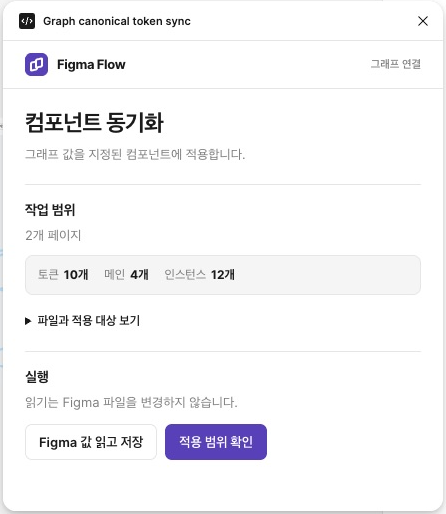
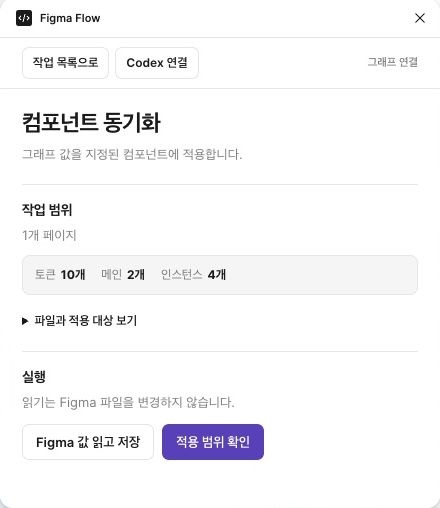
Preserve linked typography through scoped adoption and rollback

diff --git a/figma-bridge/graph_token_sync.js b/figma-bridge/graph_token_sync.js
@@ -16,7 +16,7 @@ function graphSyncPaint(node, field) {
 function graphSyncFieldBinding(node, field) {
   let result;
   if (graphSyncPaintField(field)) result = graphSyncPaint(node, field).boundVariables?.color;
-  else if (field === 'fontFamily') result = node.getRangeBoundVariable(0, node.characters.length, field);
+  else if (field === 'fontFamily' || field === 'fontSize') result = node.getRangeBoundVariable(0, node.characters.length, field);
   else if (field === 'borderRadius') {
     const fields = ['topLeftRadius', 'topRightRadius', 'bottomLeftRadius', 'bottomRightRadius'];
     const aliases = fields.map(key => node.boundVariables?.[key] || node.boundVariables?.cornerRadius || null);
@@ -57,11 +57,119 @@ function graphSyncWritable(node, field) {
 }
 function graphSyncBindField(figma, node, field, variable) {
   graphSyncWritable(node, field);
+  if (node.type === 'TEXT' && ['fontSize', 'fontFamily'].includes(field) && node.textStyleId) throw Error(`Graph token sync: linked typography requires scoped style migration: ${node.id}.${field}`);
   if (graphSyncPaintField(field)) node[graphSyncNativeField(field)] = [figma.variables.setBoundVariableForPaint(graphSyncPaint(node, field), 'color', variable)];
-  else if (field === 'fontFamily') node.setRangeBoundVariable(0, node.characters.length, field, variable);
+  else if (field === 'fontFamily' || field === 'fontSize') node.setRangeBoundVariable(0, node.characters.length, field, variable);
   else if (field === 'borderRadius') for (const corner of ['topLeftRadius', 'topRightRadius', 'bottomLeftRadius', 'bottomRightRadius']) node.setBoundVariable(corner, variable);
   else node.setBoundVariable(graphSyncNativeField(field), variable);
 }
+const GRAPH_SYNC_STYLE_FIELDS = ['fontName', 'fontSize', 'textDecoration', 'letterSpacing', 'lineHeight', 'leadingTrim', 'paragraphIndent', 'paragraphSpacing', 'textWrapStyle', 'listSpacing', 'hangingPunctuation', 'hangingList', 'textCase'];
+const GRAPH_SYNC_TEXT_BINDINGS = ['fontFamily', 'fontSize', 'fontStyle', 'fontWeight', 'letterSpacing', 'lineHeight', 'paragraphSpacing', 'paragraphIndent'];
+function graphSyncTextEqual(a, b) {
+  if (a && b && typeof a === 'object' && typeof b === 'object') {
+    if (Array.isArray(a) || Array.isArray(b)) return Array.isArray(a) && Array.isArray(b) && a.length === b.length && a.every((value, index) => graphSyncTextEqual(value, b[index]));
+    const keys = Object.keys(a);
+    return keys.length === Object.keys(b).length && keys.every(key => Object.prototype.hasOwnProperty.call(b, key) && graphSyncTextEqual(a[key], b[key]));
+  }
+  return graphSyncEqual(a, b);
+}
+
+function graphSyncTextState(node) {
+  const profile = {};
+  for (const field of GRAPH_SYNC_STYLE_FIELDS) if (field in node) {
+    if (typeof node[field] === 'symbol') throw Error(`Graph token sync: mixed text property: ${node.id}.${field}`);
+    profile[field] = JSON.parse(JSON.stringify(node[field]));
+  }
+  const bindings = {};
+  for (const field of GRAPH_SYNC_TEXT_BINDINGS) {
+    const binding = node.getRangeBoundVariable(0, node.characters.length, field);
+    if (typeof binding === 'symbol') throw Error(`Graph token sync: mixed text binding: ${node.id}.${field}`);
+    if (binding) bindings[field] = {type: binding.type, id: binding.id};
+  }
+  return {style_id: node.textStyleId || '', profile, bindings};
+}
+async function graphSyncTextStyles(figma, entries, namespace) {
+  const records = new Map(), written = [], styles = [], expectedStyles = new Map();
+  const clone = value => JSON.parse(JSON.stringify(value));
+  const same = graphSyncTextEqual;
+  for (const entry of entries) {
+    if (!['fontSize', 'fontFamily'].includes(entry.field) || entry.node.type !== 'TEXT') continue;
+    if (typeof entry.node.textStyleId === 'symbol') throw Error(`Graph token sync: mixed text styles: ${entry.node.id}`);
+    if (!entry.node.textStyleId) continue;
+    let record = records.get(entry.node.id);
+    if (!record) {
+      const before = graphSyncTextState(entry.node);
+      const source = await figma.getStyleByIdAsync(before.style_id);
+      if (!source || source.type !== 'TEXT' || typeof figma.createTextStyle !== 'function' || typeof entry.node.setTextStyleIdAsync !== 'function') throw Error('Graph token sync: scoped text style API required');
+      for (const [field, value] of Object.entries(before.profile)) if (!same(source[field], value)) throw Error(`Graph token sync: existing typography override requires explicit review: ${entry.node.id}.${field}`);
+      if (!same(source.boundVariables || {}, before.bindings)) throw Error(`Graph token sync: existing text binding override requires explicit review: ${entry.node.id}`);
+      if (!same(graphSyncTextState(entry.node), before)) throw Error('Graph token sync: text changed during style preflight');
+      record = {node: entry.node, before, source, targets: new Map(), main: entry.main}; records.set(entry.node.id, record);
+    }
+    record.targets.set(entry.field, entry.variable);
+  }
+  const styleState = style => ({profile: Object.fromEntries(GRAPH_SYNC_STYLE_FIELDS.filter(field => field in style).map(field => [field, clone(style[field])])), bindings: clone(style.boundVariables || {}), name: style.name, owner: style.getPluginData('graphSSOT')});
+  return {
+    handles(node, field) {return records.has(node.id) && ['fontSize', 'fontFamily'].includes(field);},
+    async bind(node) {
+      const record = records.get(node.id);
+      if (written.includes(record)) return;
+      if (!same(graphSyncTextState(node), record.before)) {
+        const inherited = written.find(item => node.textStyleId === item.style.id && same(node.textStyleId && graphSyncTextState(node).bindings, item.after.bindings));
+        if (inherited && [...record.targets].every(([field, variable]) => graphSyncFieldBinding(node, field)?.id === variable.id)) return;
+        throw Error(`Graph token sync: text changed before style migration: ${node.id}`);
+      }
+      const originalBindings = new Map();
+      for (const [field, alias] of Object.entries(record.before.bindings)) {
+        const variable = await figma.variables.getVariableByIdAsync(alias.id);
+        if (!variable) throw Error('Graph token sync: source text style binding unavailable');
+        originalBindings.set(field, variable);
+      }
+      const style = figma.createTextStyle();
+      styles.push(style);
+      try {
+        style.name = `${namespace || 'Graph'}/typography/${node.id}`;
+        for (const [field, value] of Object.entries(record.before.profile)) style[field] = clone(value);
+        for (const field of ['description', 'descriptionMarkdown', 'documentationLinks']) if (field in record.source) style[field] = clone(record.source[field]);
+        style.setPluginData('graphSSOT', JSON.stringify({namespace: namespace || null, source_style_id: record.before.style_id, node_id: node.id}));
+        for (const [field, variable] of originalBindings) style.setBoundVariable(field, variable);
+        for (const [field, variable] of record.targets) style.setBoundVariable(field, variable);
+      } finally {
+        // Capture partial synchronous writes before anything can yield to another editor.
+        expectedStyles.set(style.id, styleState(style));
+      }
+      if (!same(graphSyncTextState(node), record.before)) throw Error('Graph token sync: text changed before style assignment');
+      record.style = style; record.after = {style_id: style.id, profile: styleState(style).profile, bindings: styleState(style).bindings}; written.push(record);
+      await node.setTextStyleIdAsync(style.id);
+      if (!same(graphSyncTextState(node), record.after)) throw Error(`Graph token sync: scoped text style getter differs: ${node.id}`);
+    },
+    mark() {
+      for (const record of written) {
+        const state = graphSyncTextState(record.node), expected = styleState(record.style);
+        if (state.style_id !== record.style.id || !same(state.profile, expected.profile) || !same(state.bindings, expected.bindings)) throw Error('Graph token sync: owned text style state changed');
+        record.after = state;
+      }
+    },
+    async rollback(conflicts) {
+      for (const record of [...written].sort((a, b) => Number(b.main) - Number(a.main))) try {
+        const state = graphSyncTextState(record.node);
+        if (same(state, record.before)) continue;
+        if (!same(state, record.after)) {conflicts.push({kind: 'text-style-changed', node_id: record.node.id, actual: state}); continue;}
+        await record.node.setTextStyleIdAsync(record.before.style_id);
+        if (!same(graphSyncTextState(record.node), record.before)) conflicts.push({kind: 'text-style-restore-differs', node_id: record.node.id, actual: graphSyncTextState(record.node)});
+      } catch (error) {conflicts.push({kind: 'text-style-restore-failed', node_id: record.node.id, error: String(error)});}
+      for (const record of records.values()) try {
+        if (!same(graphSyncTextState(record.node), record.before) && !conflicts.some(item => item.node_id === record.node.id && item.kind.startsWith('text-style-'))) conflicts.push({kind: 'text-style-restore-differs', node_id: record.node.id, actual: graphSyncTextState(record.node)});
+      } catch (error) {conflicts.push({kind: 'text-style-restore-failed', node_id: record.node.id, error: String(error)});}
+      for (const style of styles) try {
+        if (!same(styleState(style), expectedStyles.get(style.id))) {conflicts.push({kind: 'created-text-style-changed', style_id: style.id}); continue;}
+        if (typeof style.getStyleConsumersAsync !== 'function' || (await style.getStyleConsumersAsync()).length) {conflicts.push({kind: 'created-text-style-referenced', style_id: style.id}); continue;}
+        style.remove();
+      } catch (error) {conflicts.push({kind: 'text-style-cleanup-failed', style_id: style.id, error: String(error)});}
+    }
+  };
+}
+
 function graphSyncRestoreLiteral(node, field, value) {
   if (graphSyncPaintField(field)) {
     const paint = graphSyncPaint(node, field); const {a = 1, ...color} = value;
@@ -76,7 +184,7 @@ function graphSyncRollbackError(error, plan, conflicts) {
   error.rollback_conflicts = combined;
   error.readback = {schema: 'figma-flow-graph-token-readback-v1', operation: 'apply',
     file_key: plan.file_key, page_id: plan.page_id, collection_id: plan.collection_id,
-    status: combined.length ? 'rollback-conflict' : 'rolled-back', error: error.message || String(error), stack: error.stack || null, rollback_conflicts: combined};
+    status: combined.length ? 'rollback-conflict' : 'rolled-back', binding_diagnostics: error.binding_diagnostics || null, error: error.message || String(error), stack: error.stack || null, rollback_conflicts: combined};
   if (conflicts.length) error.message += `; rollback conflicts: ${conflicts.map(item => item.kind).join(', ')}`;
   error.readback.error = error.message || String(error);
   return error;
@@ -108,7 +216,7 @@ async function graphSyncConsumerGuard(figma, admittedPages, consumers, rootIds) 
     const result = Object.entries(node.boundVariables || {});
     for (const field of ['fills', 'strokes', 'effects']) if (Array.isArray(node[field])) result.push([field, node[field]]);
     if (node.type === 'TEXT' && typeof node.getStyledTextSegments === 'function') for (const segment of node.getStyledTextSegments(['boundVariables'])) result.push(...Object.entries(segment.boundVariables || {}));
-    if (node.type === 'TEXT' && node.characters.length && typeof node.getRangeBoundVariable === 'function') result.push(['fontFamily', node.getRangeBoundVariable(0, node.characters.length, 'fontFamily')]);
+    if (node.type === 'TEXT' && node.characters.length && typeof node.getRangeBoundVariable === 'function') for (const field of ['fontFamily', 'fontSize']) result.push([field, node.getRangeBoundVariable(0, node.characters.length, field)]);
     return result;
   };
   const allNodes = () => pages.flatMap(page => [page, ...page.findAll(() => true)]);
@@ -248,7 +356,14 @@ async function graphTokenSync(figma, plan, operation = 'inspect') {
           const repair = repairs.get(`${target.id}:${field}`);
           if (repair && (repair.token !== key || (alias?.id || null) !== repair.before_variable_id || !same(actual(target, field), repair.before_value))) fail(`stale repair binding: ${target.id}.${field}`);
           const mismatch = !alias || alias.type !== 'VARIABLE_ALIAS' || alias.id !== entry.bound.id || !same(actual(target, field), entry.root.valuesByMode[mode]);
-          if (operation === 'apply' && mismatch && !repair) fail(`${alias?.id !== entry.bound.id ? 'binding mismatch' : 'native getter mismatch'}: ${target.id}.${field}`);
+          if (operation === 'apply' && mismatch && !repair) {
+            const error = Error(`Graph token sync: ${alias?.id !== entry.bound.id ? 'binding mismatch' : 'native getter mismatch'}: ${target.id}.${field}`);
+            const aggregate = target.boundVariables?.[field];
+            error.binding_diagnostics = {node_id: target.id, field, expected_variable_id: entry.bound.id, effective_range_binding: alias,
+              aggregate_bindings: (Array.isArray(aggregate) ? aggregate : [aggregate]).slice(0, 8).map(item => item?.id || null),
+              text_style_id: typeof target.textStyleId === 'string' ? target.textStyleId.slice(0, 200) : null};
+            throw error;
+          }
           consumers.push({node: target, field, entry, repair, source: sources.get(node.id) || node.id, source_node: node});
         }
       }
@@ -498,6 +613,7 @@ async function graphTokenPairMigration(figma, plan, operation) {
   const created = new Map(), createdExpected = new Map(), rebound = [];
   const snapshot = item => ({name: item.name, type: item.resolvedType, valuesByMode: clone(item.valuesByMode), ownership: item.getPluginData('graphSSOT')});
   const bindVariable = (node, field, variable) => graphSyncBindField(figma, node, field, variable);
+  let textStyles = null;
   try {
     for (const [name, definition] of definitions) {
       if (reused.has(name)) continue;
@@ -513,20 +629,25 @@ async function graphTokenPairMigration(figma, plan, operation) {
       item.setValueForMode(mode, definition.alias ? {type: 'VARIABLE_ALIAS', id: pairVariables.get(definition.alias).id} : definition.value);
       createdExpected.set(item.id, snapshot(item));
     }
+    textStyles = await graphSyncTextStyles(figma, migrations.map(item => ({...item, variable: pairVariables.get(tokenByKey.get(item.token).variable_name)})), plan.namespace);
     for (const migration of [...migrations.filter(item => item.main), ...migrations.filter(item => !item.main)]) {
       const variable = pairVariables.get(tokenByKey.get(migration.token).variable_name);
       const live = aliasOf(migration.node, migration.field);
       if (live?.id === variable.id && same(valueOf(migration.node, migration.field), tokenByKey.get(migration.token).value)) continue;
       if ((live?.id || null) !== migration.before_variable_id || !same(valueOf(migration.node, migration.field), migration.before_value)) fail('migration changed before rebinding');
+      if (textStyles.handles(migration.node, migration.field)) {await textStyles.bind(migration.node); continue;}
       rebound.push({...migration, written_variable_id: variable.id});
       bindVariable(migration.node, migration.field, variable);
     }
+    textStyles.mark();
+    if (figma.fileKey !== plan.file_key || figma.currentPage.id !== page.id || page.getPluginData('graphSSOT') !== markerBefore) fail('scope or baseline changed during style migration');
     const adopted = {...plan, migrations: undefined, tokens: plan.tokens.map(token => token.create ? ({...token, create: undefined, before: token.value, variable_id: pairVariables.get(token.variable_name).id, root_variable_id: pairVariables.get(token.root_variable_name).id, alias_chain: (token.alias_chain_names || (token.variable_name === token.root_variable_name ? [token.variable_name] : [token.variable_name, token.root_variable_name])).map(name => pairVariables.get(name).id)}) : ({...token, before: token.value}))};
     const result = await graphTokenSync(figma, adopted, 'apply');
     result.tokens.forEach(token => {const source = tokenByKey.get(token.key); if (source.alias_chain_names) token.alias_chain_names = source.alias_chain_names; else if (source.create) token.alias_chain_names = source.variable_name === source.root_variable_name ? [source.variable_name] : [source.variable_name, source.root_variable_name];});
     return result;
   } catch (error) {
     const conflicts = [];
+    if (textStyles) await textStyles.rollback(conflicts);
     for (const migration of rebound.reverse()) try {
       const old = migration.before_variable_id ? await figma.variables.getVariableByIdAsync(migration.before_variable_id) : null;
       const live = aliasOf(migration.node, migration.field);
@@ -536,7 +657,7 @@ async function graphTokenPairMigration(figma, plan, operation) {
       }
       else if ((live?.id || null) !== migration.before_variable_id) conflicts.push({kind: 'binding-changed', node_id: migration.node.id, field: migration.field, actual: live || null});
     } catch (failure) {conflicts.push({kind: 'binding-restore-failed', node_id: migration.node.id, field: migration.field, error: String(failure)});}
-    let retain = false;
+    let retain = conflicts.some(item => item.kind === 'created-text-style-changed' || item.kind === 'created-text-style-referenced' || item.kind === 'text-style-cleanup-failed');
     const createdIds = new Set([...created.values()].map(item => item.id));
     const referencesCreated = value => {
       if (!value || typeof value !== 'object') return false;
@@ -554,7 +675,7 @@ async function graphTokenPairMigration(figma, plan, operation) {
       for (const item of allPages) for (const node of item.findAll(() => true)) {
         let referenced = referencesCreated(node.boundVariables);
         for (const field of ['fills', 'strokes', 'effects']) if (Array.isArray(node[field])) referenced ||= referencesCreated(node[field]);
-        if (node.type === 'TEXT' && node.characters.length && typeof node.getRangeBoundVariable === 'function') referenced ||= referencesCreated(node.getRangeBoundVariable(0, node.characters.length, 'fontFamily'));
+        if (node.type === 'TEXT' && node.characters.length && typeof node.getRangeBoundVariable === 'function') for (const field of ['fontFamily', 'fontSize']) referenced ||= referencesCreated(node.getRangeBoundVariable(0, node.characters.length, field));
         if (node.type === 'TEXT' && typeof node.getStyledTextSegments === 'function') referenced ||= node.getStyledTextSegments(['boundVariables']).some(segment => referencesCreated(segment.boundVariables));
         if (referenced) {retain = true; conflicts.push({kind: 'created-variable-referenced', node_id: node.id});}
       }

diff --git a/figma-bridge/workspace_host.js b/figma-bridge/workspace_host.js
@@ -100,7 +100,7 @@ window.addEventListener('message', event => {
 window.addEventListener('DOMContentLoaded', () => {
   const bar = document.createElement('nav');
   bar.setAttribute('aria-label', '작업 이동');
-  bar.style.cssText = 'display:flex;flex-wrap:wrap;align-items:center;gap:6px;padding:6px 14px;box-sizing:border-box;max-width:100%;border-bottom:1px solid var(--figma-color-border,#dedde5);background:var(--figma-color-bg,#fff);';
+  bar.style.cssText = 'display:flex;flex-wrap:wrap;align-items:center;gap:6px;box-sizing:border-box;max-width:100%;';
   const button = document.createElement('button');
   button.id = 'workspace-back'; button.type = 'button'; button.textContent = '작업 목록으로';
   button.style.cssText = 'min-height:32px;padding:4px 10px;font-size:12px;';
@@ -114,7 +114,18 @@ window.addEventListener('DOMContentLoaded', () => {
     chat.onclick = () => window.parent.postMessage({pluginMessage: {type: 'workspace-chat', workspaceSession}}, '*');
     bar.appendChild(chat);
   }
-  document.body.prepend(bar);
+  const masthead = document.querySelector('.masthead');
+  if (masthead) {
+    const brand = masthead.querySelector('.brand');
+    if (brand) brand.replaceWith(bar);
+    else masthead.prepend(bar);
+    masthead.style.flexWrap = 'wrap';
+    const context = masthead.querySelector('.context');
+    if (context) {context.style.flex = '1 1 70px'; context.style.minWidth = '0';}
+  } else {
+    bar.style.cssText += 'padding:6px 14px;border-bottom:1px solid var(--figma-color-border,#dedde5);background:var(--figma-color-bg,#fff);';
+    document.body.prepend(bar);
+  }
   window.parent.postMessage({pluginMessage: {type: 'workspace-navigation-ready', workspaceSession}}, '*');
 });
 </script>`;

diff --git a/CHANGELOG.md b/CHANGELOG.md
@@ -2,6 +2,8 @@
 
 ## 0.22.0 · 2026-11-10
 
+- 기존 Figma 텍스트 스타일을 사용한 버튼은 선언한 레이블에 전용 스타일을 연결합니다. 원래 스타일과 다른 소비자를 보존하고 실패 시 메인·인스턴스의 스타일 ID까지 확인합니다. 다른 페이지에서 시안을 다시 열 때는 해당 페이지를 먼저 불러옵니다.
+
 - Figma Flow 하나를 등록하면 프로젝트별 작업 목록에서 Codex가 준비한 가져오기·검토·조사·동기화 작업을 열 수 있습니다. 준비된 작업은 개별 Figma 등록 없이 갱신됩니다.
 - 작업을 준비한 Codex 채팅을 열고, 요청문과 선택한 노드의 미리보기를 복사하거나 로컬 연결을 통해 해당 채팅 대기열에 보낼 수 있습니다.
 - 워크숍 시안의 상태 전환을 본제작 화면으로 가져올 때, 그래프가 선언한 상태와 화면의 연결을 검증합니다.

diff --git a/examples/graph-ssot/README.md b/examples/graph-ssot/README.md
@@ -129,3 +129,5 @@ This route is an explicit export/read/import workflow. It does not run an unauth
 ## Standalone compatibility
 
 Existing separately registered discovery/export plugins remain supported with `graph_sync.py discover` / `graph_sync.py export`, explicit `--plugin-id` and a fresh `--out`. Keep their original private-data identity. New work uses `figma_workspace.py prepare` and the stable workspace home. Neither route changes actual user-selection, native/web proof or pairing requirements.
+
+When adopting uniform text linked to a local Figma style, the plugin derives a scoped style, preserves its other typography properties and variable bindings, and applies it to the declared labels. Instances can inherit the new style. Mixed runs or pre-existing style overrides require explicit inspection. If a write fails, rollback checks the original style ID, effective values and bindings for both mains and inherited labels.
